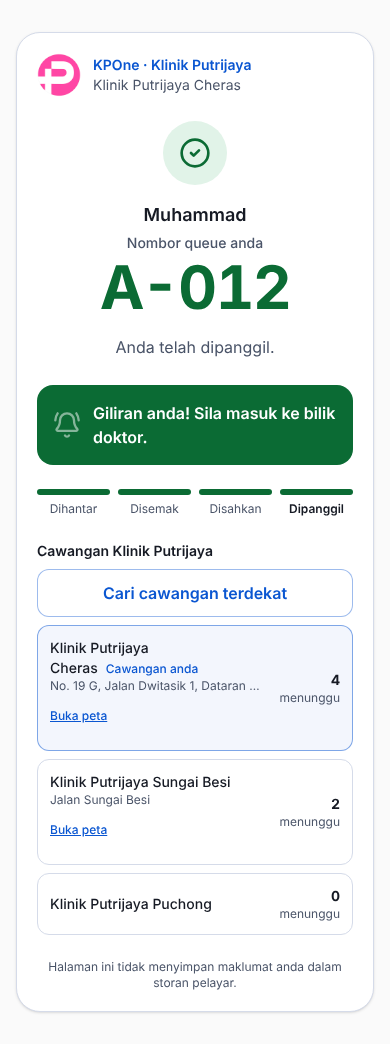
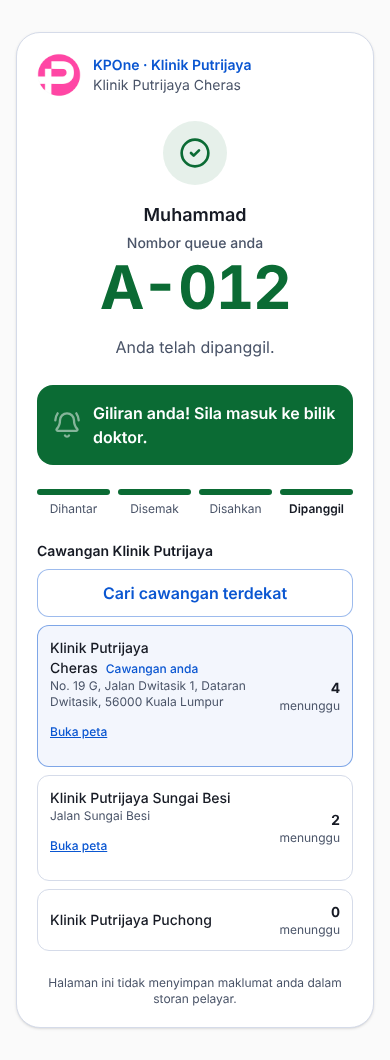
Evidence: V2 public Status shots after review changes
Claude-Session: https://claude.ai/code/session_01MHFmnYoYMLyuAm47W74WnU

diff --git a/docs/validation/v2-public-status/README.md b/docs/validation/v2-public-status/README.md
@@ -3,3 +3,9 @@
 Synthetic props, six states (pending, review, accepted, next/otc, called, rejected) at 1440, 390 and 320 px, light and dark.
 No sideways scroll, no staff-shell text, no storage, no external requests (the script prints nothing when clean).
 Classic shots with the switch off: 34 of 36 pixel-identical to `main`; the two differences (called, 390, light and dark) are one 26x26 px area, the banner's pulsing icon.
+
+## Update after Daniel's review (head of feature/v2-public-status)
+- Branch addresses wrap onto two lines at 390 and 320; "Buka peta" is a 44 px link.
+- Semak status shows "Menyemak…" while checking.
+- Switch-OFF compare with reduced motion emulated and CSS animations frozen in both builds (main vs branch Classic, called and accepted, 390 and 320, light and dark): 8 compared, 0 differing pixels.
+- The V2 pulse uses motion-safe:animate-pulse, so it stops under prefers-reduced-motion.
